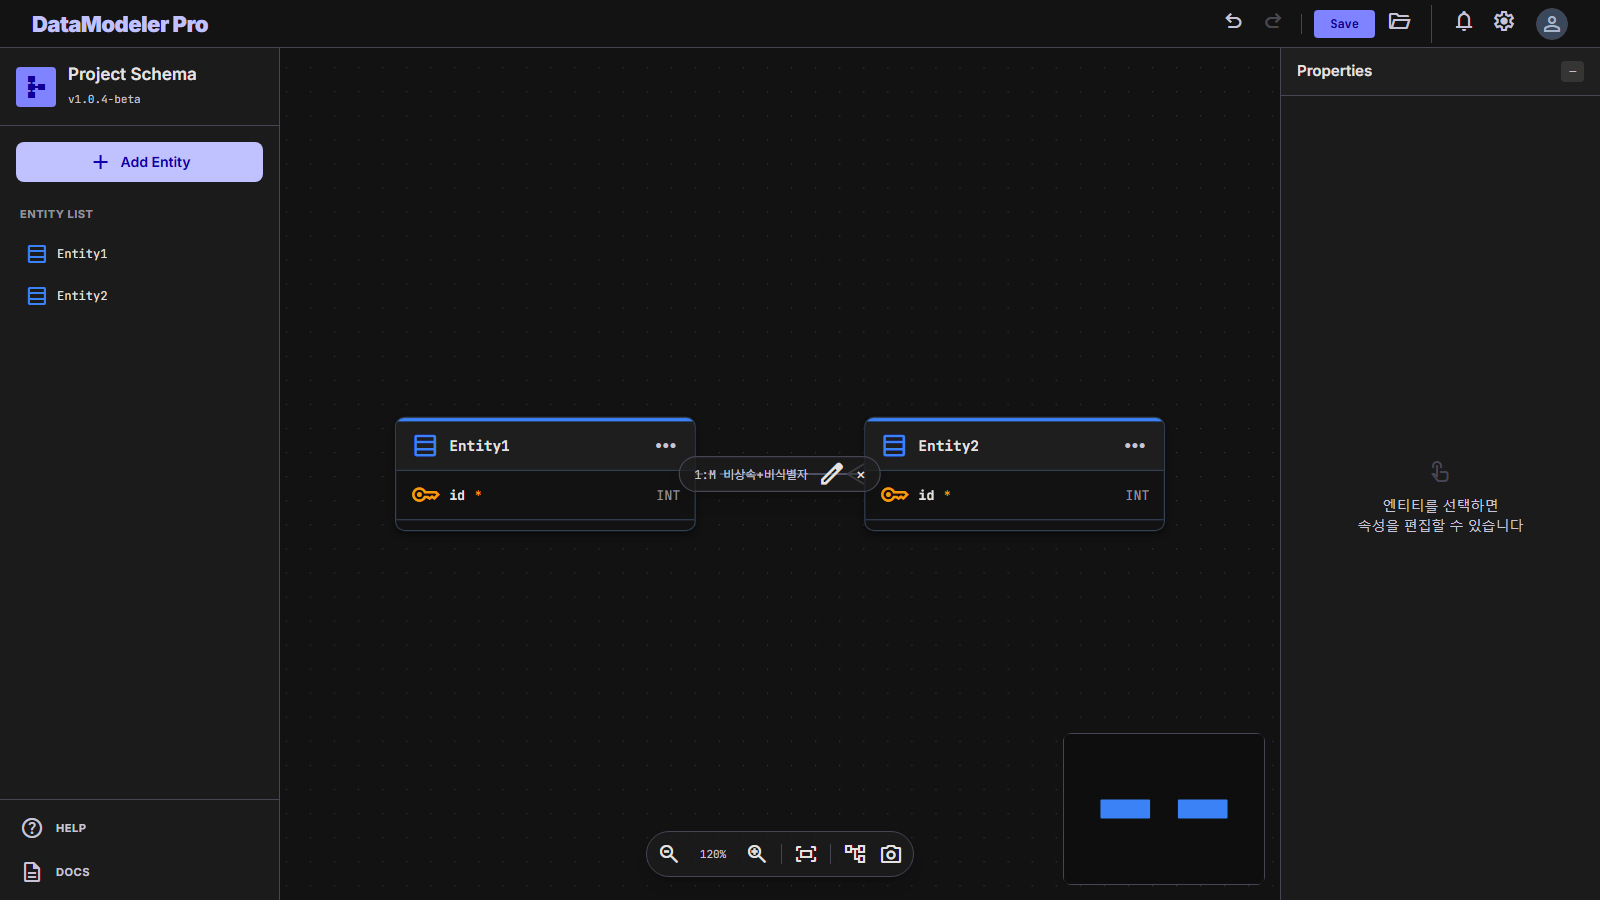
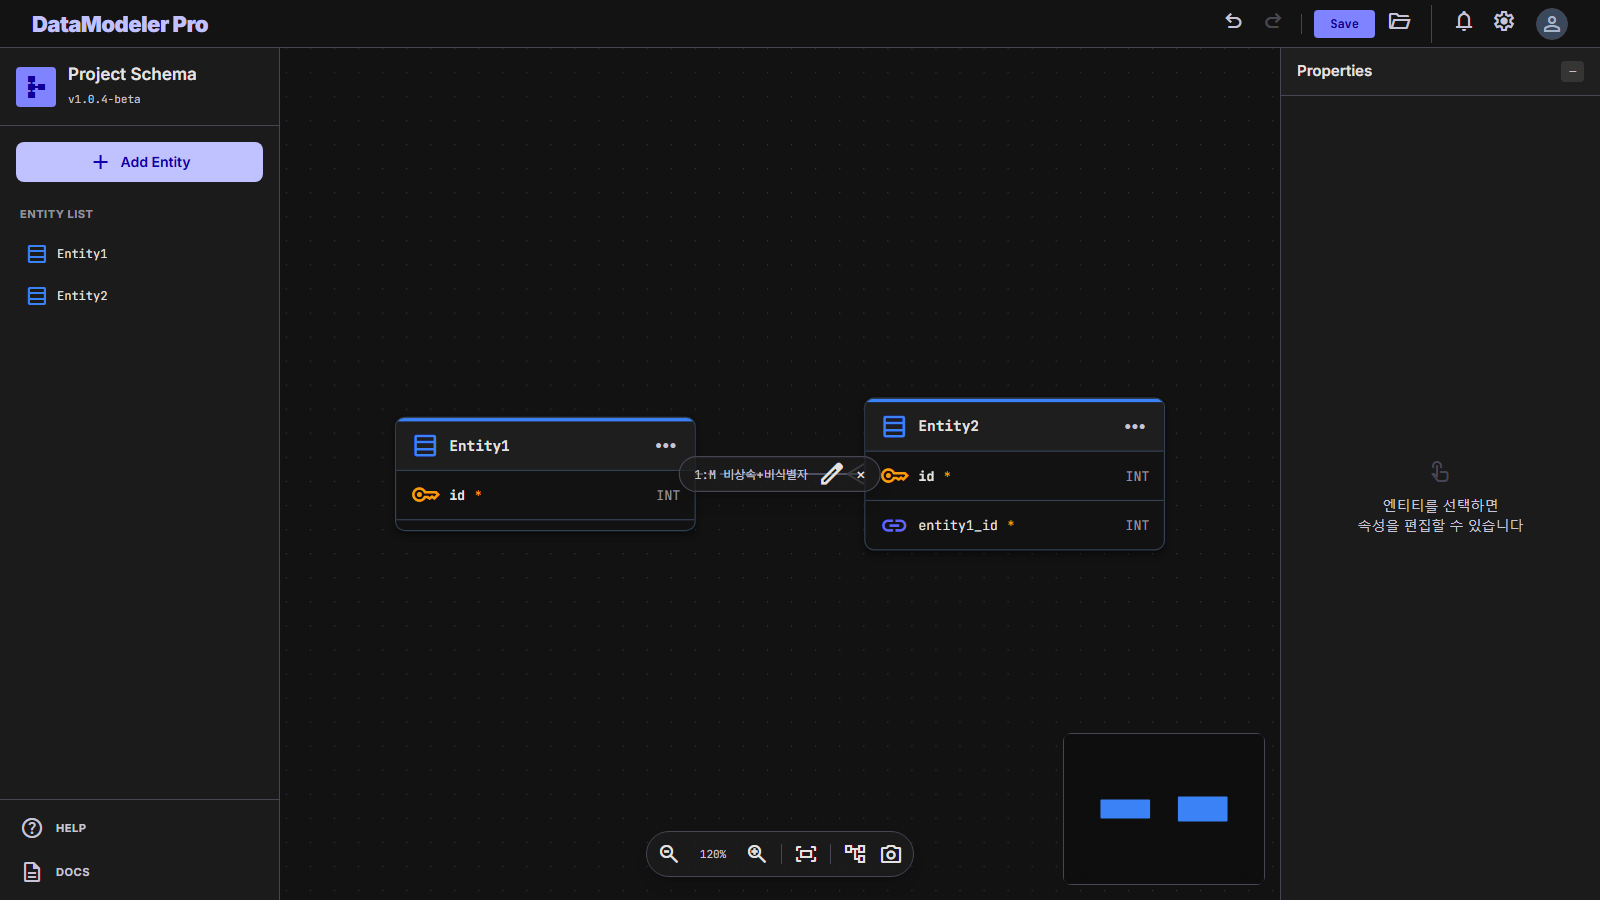
비식별 관계도 FK 생성 — 식별자 미포함
- 모든 관계 타입에서 FK 자동 생성, 플래그 차등: 식별=PK+NN, 비식별=일반 FK+NN, 선택=NULL 허용
- 타입 변경 시 FK 삭제/재생성 대신 플래그만 전환 (컬럼명 수정 보존), FK 없는 기존 데이터는 생성
- 관계 삭제 시 모든 타입에서 자동 FK 제거, RelTypeModal 설명 갱신
- verify_features 기대값 갱신 14항목 PASS, verify_fk_cleanup 13항목 확장 PASS, 회귀(logical·backend) PASS
- verify_fanout에 BASE_URL 지원 추가 (barker처럼 개편 이전 구버전임을 확인)

Changed region(s): [[0.5312, 0.4356, 0.7188, 0.5911]]

diff --git a/erd-service/src/store/erdStore.ts b/erd-service/src/store/erdStore.ts
@@ -20,8 +20,20 @@ function isIdentifyingType(type: RelationshipType): boolean {
   return type === 'ONE_TO_MANY_IDENTIFYING' || type === 'ONE_TO_ONE_IDENTIFYING';
 }
 
-// 식별 관계용 FK 컬럼 생성 (상위 엔티티 PK → 하위 엔티티 PK+FK)
-function buildFKColumns(sourceEntity: Entity, sourceId: string): Column[] {
+// 관계 타입별 FK 컬럼 플래그 — 식별: PK 포함, 비식별: 일반 FK, 선택: NULL 허용
+function fkFlagsFor(type: RelationshipType): { isPK: boolean; isNN: boolean } {
+  return {
+    isPK: isIdentifyingType(type),
+    isNN: type !== 'ONE_TO_MANY_OPTIONAL',
+  };
+}
+
+// FK 컬럼 생성 (상위 엔티티 PK → 하위 엔티티 FK, 플래그는 관계 타입에 따름)
+function buildFKColumns(
+  sourceEntity: Entity,
+  sourceId: string,
+  flags: { isPK: boolean; isNN: boolean }
+): Column[] {
   return sourceEntity.columns.filter(c => c.isPK).map(pk => ({
     id: genId(),
     name: `${sourceEntity.name.toLowerCase()}_${pk.name}`,
@@ -31,9 +43,9 @@ function buildFKColumns(sourceEntity: Entity, sourceId: string): Column[] {
       : '',
     type: pk.type as ColumnType,
     size: pk.size,
-    isPK: true,
+    isPK: flags.isPK,
     isFK: true,
-    isNN: true,
+    isNN: flags.isNN,
     isUnique: false,
     refEntityId: sourceId,
     refColumnId: pk.id,
@@ -260,22 +272,17 @@ export const useERDStore = create<ERDStore>((set, get) => {
 
       pushHistory('addRelationship');
 
-      if (isIdentifyingType(type)) {
-        const newFKColumns = buildFKColumns(sourceEntity, sourceId);
-        set(s => ({
-          entities: s.entities.map(e =>
-            e.id === targetId ? { ...e, columns: [...e.columns, ...newFKColumns] } : e
-          ),
-          relationships: [...s.relationships, { id: genId(), sourceId, targetId, type }],
-        }));
-      } else {
-        set(s => ({
-          relationships: [...s.relationships, { id: genId(), sourceId, targetId, type }],
-        }));
-      }
+      // 모든 관계 타입에서 FK 생성 — 식별이면 PK 포함, 비식별/선택이면 일반 FK
+      const newFKColumns = buildFKColumns(sourceEntity, sourceId, fkFlagsFor(type));
+      set(s => ({
+        entities: s.entities.map(e =>
+          e.id === targetId ? { ...e, columns: [...e.columns, ...newFKColumns] } : e
+        ),
+        relationships: [...s.relationships, { id: genId(), sourceId, targetId, type }],
+      }));
     },
 
-    // 관계 타입 변경 — 식별↔비식별 전환 시 자동 FK 컬럼도 추가/제거
+    // 관계 타입 변경 — FK 컬럼은 유지하고 플래그만 전환 (식별: PK 승격, 비식별: PK 해제, 선택: NULL 허용)
     updateRelationshipType: (id, newType) => {
       const s = get();
       const rel = s.relationships.find(r => r.id === id);
@@ -285,24 +292,24 @@ export const useERDStore = create<ERDStore>((set, get) => {
 
       pushHistory(`relType:${id}`);
 
-      const wasIdent = isIdentifyingType(rel.type);
-      const isIdent = isIdentifyingType(newType);
-
-      let entities = s.entities;
-      if (isIdent && !wasIdent) {
-        // 비식별 → 식별: FK 컬럼 자동 추가
-        const newFKColumns = buildFKColumns(sourceEntity, rel.sourceId);
-        entities = entities.map(e =>
-          e.id === rel.targetId ? { ...e, columns: [...e.columns, ...newFKColumns] } : e
-        );
-      } else if (!isIdent && wasIdent) {
-        // 식별 → 비식별: 이 관계로 자동 추가된 FK 컬럼 제거 (refEntityId 기준)
-        entities = entities.map(e =>
-          e.id === rel.targetId
-            ? { ...e, columns: e.columns.filter(c => !(c.isFK && c.refEntityId === rel.sourceId)) }
-            : e
-        );
-      }
+      const flags = fkFlagsFor(newType);
+      const entities = s.entities.map(e => {
+        if (e.id !== rel.targetId) return e;
+        const hasAutoFK = e.columns.some(c => c.isFK && c.refEntityId === rel.sourceId);
+        if (hasAutoFK) {
+          // 기존 FK 플래그만 갱신 — 사용자가 수정한 컬럼명/논리명은 보존
+          return {
+            ...e,
+            columns: e.columns.map(c =>
+              c.isFK && c.refEntityId === rel.sourceId
+                ? { ...c, isPK: flags.isPK, isNN: flags.isNN }
+                : c
+            ),
+          };
+        }
+        // FK가 없는 기존 데이터(과거 비식별로 생성) — 새로 생성
+        return { ...e, columns: [...e.columns, ...buildFKColumns(sourceEntity, rel.sourceId, flags)] };
+      });
 
       set({
         entities,
@@ -315,15 +322,12 @@ export const useERDStore = create<ERDStore>((set, get) => {
       const rel = s.relationships.find(r => r.id === id);
       if (!rel) return;
       pushHistory('deleteRelationship');
-      // 식별 관계 삭제 시 이 관계로 자동 추가됐던 FK 컬럼도 제거 (타입 변경과 동일 규칙)
-      let entities = s.entities;
-      if (isIdentifyingType(rel.type)) {
-        entities = entities.map(e =>
-          e.id === rel.targetId
-            ? { ...e, columns: e.columns.filter(c => !(c.isFK && c.refEntityId === rel.sourceId)) }
-            : e
-        );
-      }
+      // 관계 삭제 시 이 관계로 자동 추가됐던 FK 컬럼도 제거 (모든 타입이 FK를 생성하므로)
+      const entities = s.entities.map(e =>
+        e.id === rel.targetId
+          ? { ...e, columns: e.columns.filter(c => !(c.isFK && c.refEntityId === rel.sourceId)) }
+          : e
+      );
       set({ entities, relationships: s.relationships.filter(r => r.id !== id) });
     },
 

diff --git a/CLAUDE.md b/CLAUDE.md
@@ -19,6 +19,7 @@
 | 2026-06-07 | 상단 GNB placeholder 메뉴·범례 제거 | 프론트엔드 | 사용하지 않는 File/Edit/View/Export 메뉴 4개와 식별/비식별/선택 Barker 범례 제거 — 브랜드·Undo/Redo·Save·불러오기·알림/설정/아바타는 유지 (`Toolbar.tsx` 수정, LegendItem 삭제, `verify_gnb_cleanup.mjs` e2e 14항목 PASS, 회귀 verify_design PASS) |
 | 2026-06-07 | 프로덕션 Node 서버 추가 | 서버 | Ubuntu 배포용 단일 Node 프로세스 구성 — Fastify 기반 `server/index.js` 신규(dist 정적 서빙 + SPA fallback, /api/*는 404 JSON으로 제외해 향후 백엔드 라우트 추가 지점 확보), `npm start` 스크립트·fastify/@fastify/static 의존성 추가. 포트는 PORT 환경변수(기본 8080). `verify_server.mjs` e2e 8항목 PASS, 회귀(verify_sidebar_cleanup, 8080 대상) PASS |
 | 2026-06-07 | package-lock 동기화 수정 | 의존성 | Ubuntu 서버 `npm ci` 실패(EUSAGE — `@emnapi/core`·`@emnapi/runtime` 락파일 누락) 해결 — Windows에서 생성된 락파일에 wasm32-wasi optional 패키지의 의존성 항목이 빠지는 npm 크로스 플랫폼 버그. 1차 락파일 재생성으로 부족해 2차로 `@emnapi/core`·`@emnapi/runtime@1.10.0`을 devDependencies에 명시 추가해 락파일 항목 강제 생성. 빌드 산출물 해시 동일(회귀 없음), `npm ci --dry-run` PASS |
+| 2026-06-07 | 비식별 관계도 FK 생성 (식별자 미포함) | 프론트엔드 | 표준 ERD 의미론 정정 — 모든 관계 타입에서 FK 자동 생성하되 플래그 차등: 식별=PK 포함+NN, 비식별=PK 미포함+NN, 선택=PK 미포함+NULL 허용. 타입 변경 시 FK 제거/재생성 대신 플래그만 전환(컬럼명 수정 보존, FK 없는 기존 데이터는 생성), 관계 삭제 시 모든 타입에서 자동 FK 제거. `erdStore.ts`(fkFlagsFor 신설, buildFKColumns 파라미터화)·`RelTypeModal.tsx`(설명 문구) 수정, verify_features 기대값 갱신 14항목 PASS·verify_fk_cleanup 13항목으로 확장 PASS, 회귀(verify_logical·verify_backend) PASS. ※ verify_fanout도 barker처럼 개편 이전 버튼 텍스트를 쓰는 구버전임을 확인(BASE_URL 지원만 추가) |
 | 2026-06-07 | 엔티티/관계 삭제 시 잔존 FK 정리 | 프론트엔드 | 상위 엔티티 삭제 후 하위 엔티티에 자동 생성 FK 컬럼이 남는 버그 수정 — `deleteEntity`가 삭제 대상을 참조(refEntityId)하는 FK 컬럼을 함께 제거, 같은 규칙으로 `deleteRelationship`도 식별 관계 삭제 시 FK 제거(타입 변경 식별→비식별과 동일 동작). 둘 다 Undo로 복원 가능 (`erdStore.ts` 수정, `verify_fk_cleanup.mjs` e2e 11항목 PASS, 회귀 verify_features·verify_backend PASS) |
 | 2026-06-07 | 네이티브 다이얼로그 → 커스텀 모달 교체 | 프론트엔드 | window.confirm/prompt/alert 전부를 디자인 시스템 모달로 교체 — `dialogStore.ts`(Promise 기반 alert/confirm/prompt)·`DialogModal.tsx`(danger 변형, Enter/Esc, 빈 입력 방지) 신규. 다이어그램 저장 이름 입력·이름 변경·삭제 확인·전환/로그아웃 시 미저장 경고·불러오기/PNG/저장 실패 알림에 적용, 확인창 없던 엔티티 삭제에도 확인 모달 추가. `verify_backend.mjs` 24항목으로 확장 PASS, 회귀(verify_features 14항목) PASS. ※ verify_barker는 디자인 개편 이전 버튼 텍스트를 쓰는 구버전이라 개편 시점부터 동작 불가(이번 변경과 무관) |
 | 2026-06-07 | 로그인 + 다이어그램 DB 저장 백엔드 | 백엔드+프론트엔드 | 아이디/비밀번호 가입·로그인(JWT httpOnly 쿠키, scrypt 해싱)과 사용자별 다이어그램 DB 저장(PostgreSQL JSONB, DATABASE_URL 미설정 시 pg-mem 폴백) 추가 — `server/db.js`·`auth-routes.js`·`diagram-routes.js` 신규, `src/api/client.ts`·`authStore.ts`·`diagramStore.ts`(dirty 추적)·`AuthModal.tsx`·`utils/erdData.ts` 신규, Toolbar(DB 저장 버튼·아바타 로그인/로그아웃)·Sidebar(내 다이어그램 목록: 전환/이름변경/삭제)·vite proxy 수정. 비로그인 사용·PNG 내보내기·JSON 파일 Save/불러오기는 기존 그대로 유지. `verify_backend.mjs` e2e 19항목 PASS, 회귀(verify_server·verify_gnb_cleanup·verify_features 14항목) PASS |
